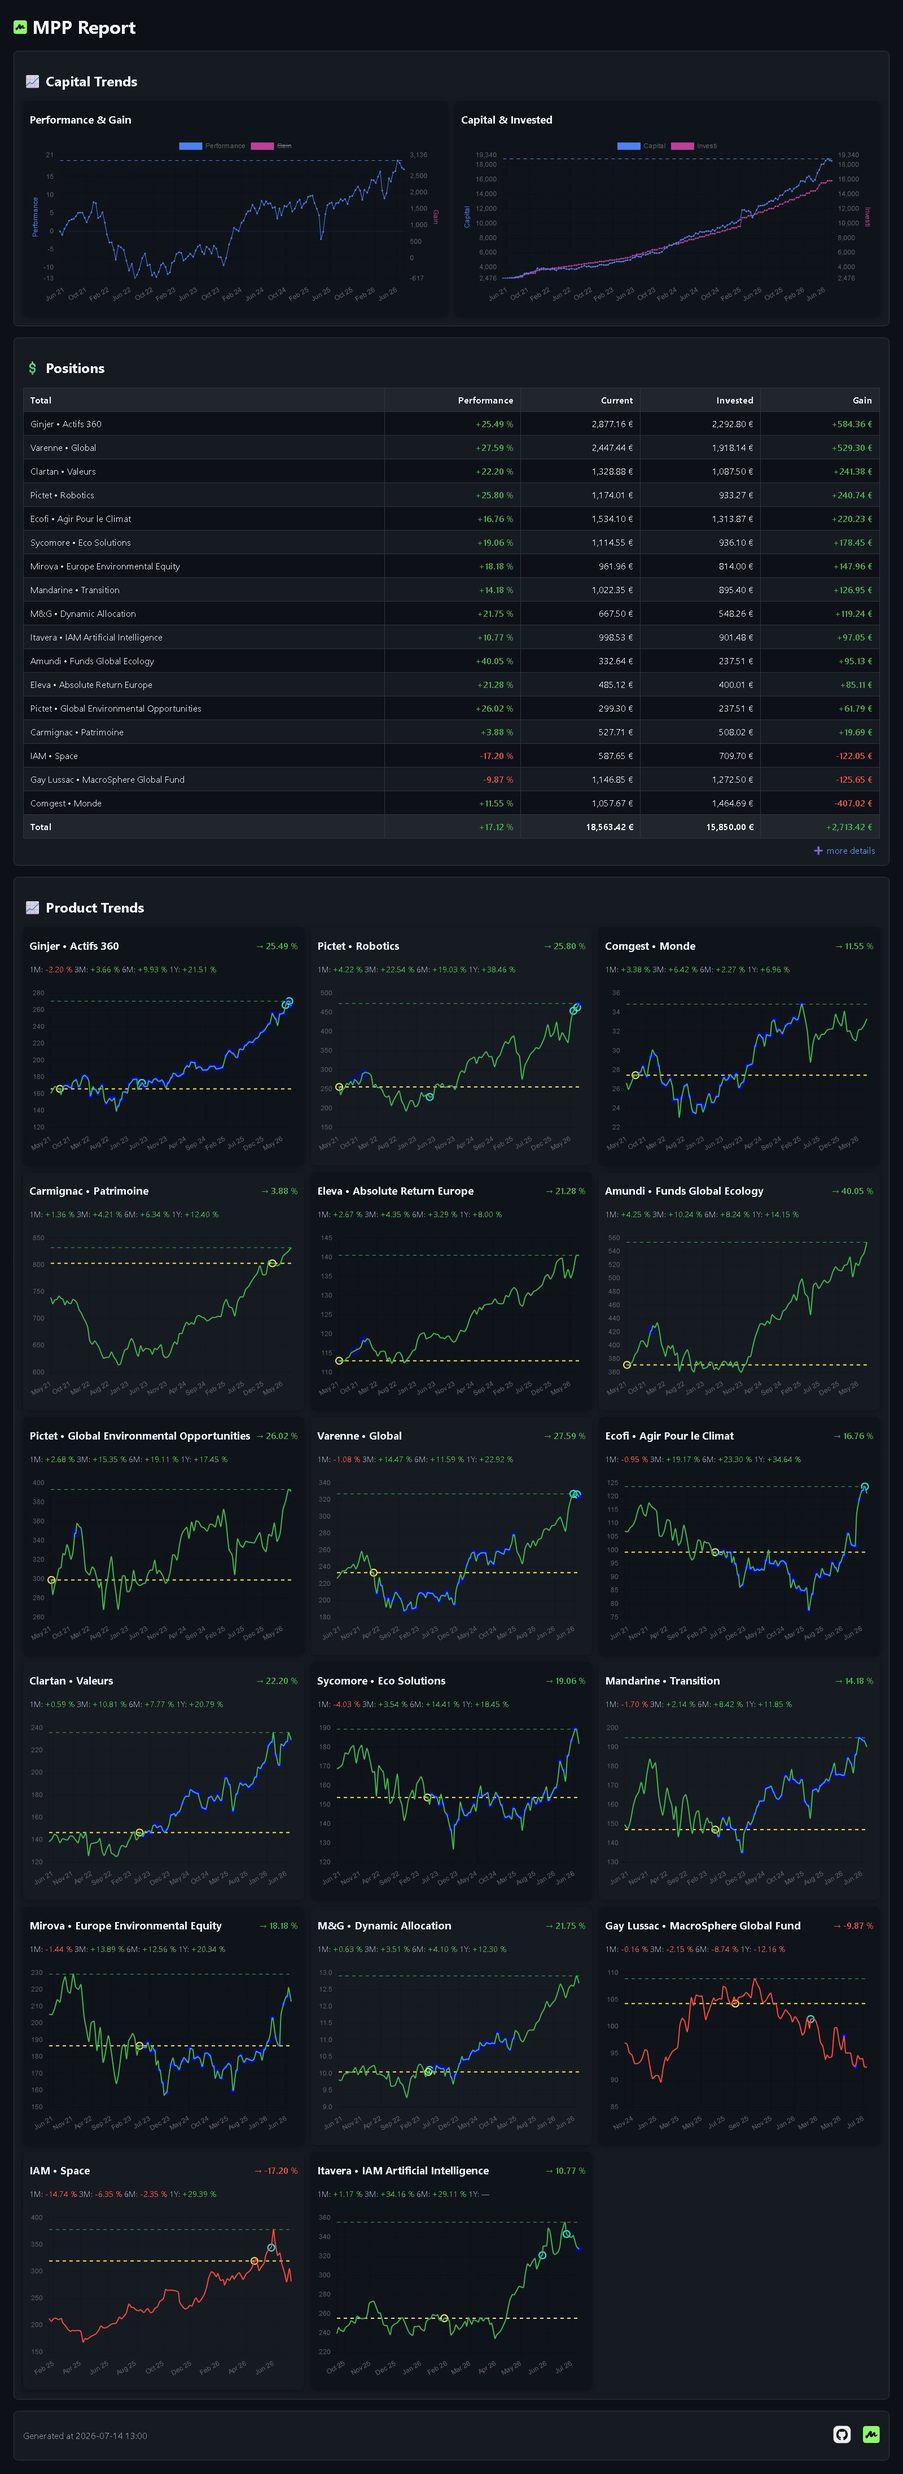
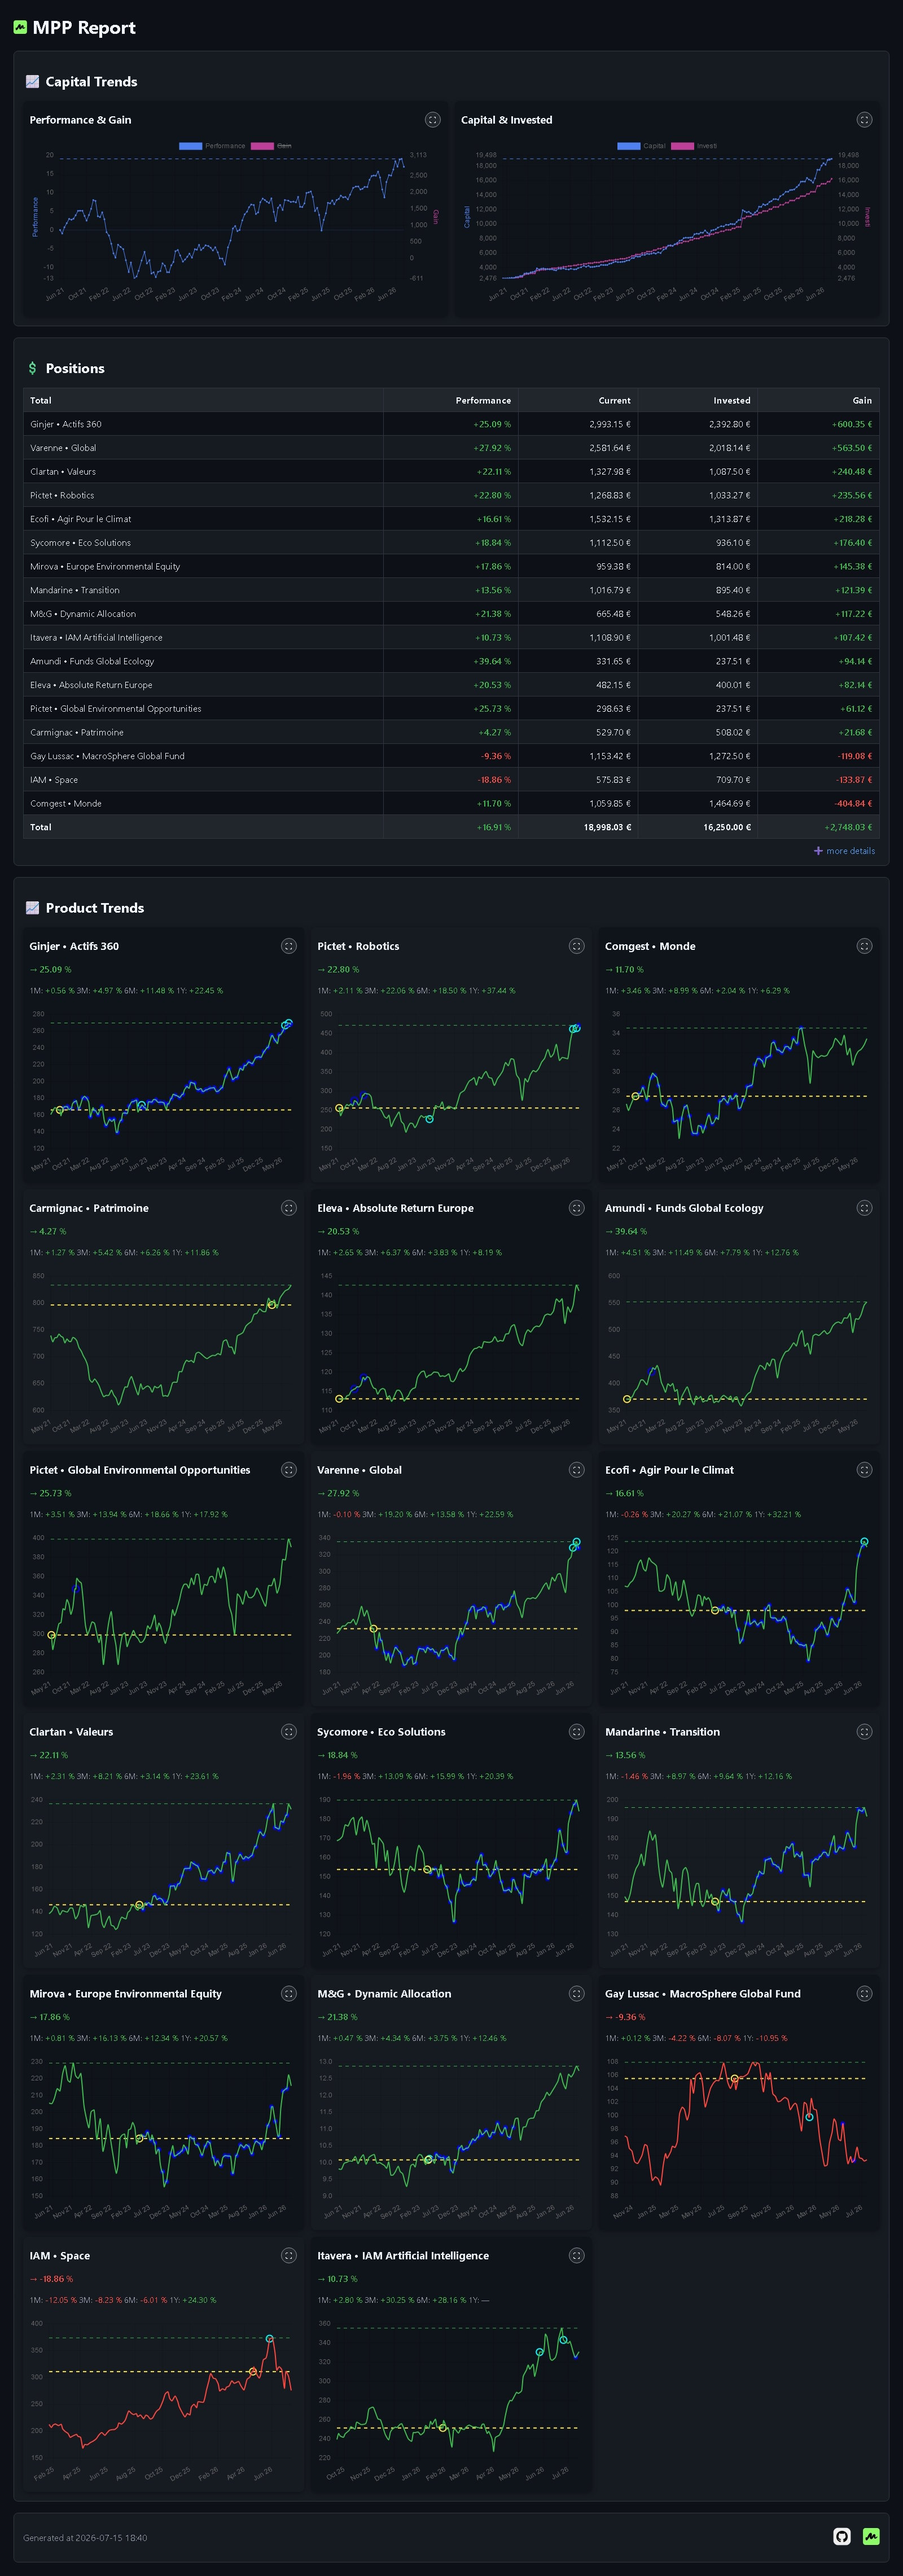
feat(charts): add fullscreen chart view

diff --git a/src/build_report/wwwroot/styles.css b/src/build_report/wwwroot/styles.css
@@ -13,6 +13,18 @@ body {
     font-family: -apple-system, BlinkMacSystemFont, "Segoe UI", Helvetica, Arial, sans-serif;
 }
 
+body.chart-fullscreen-open {
+    overflow: hidden;
+}
+
+body.chart-fullscreen-open::before {
+    content: "";
+    position: fixed;
+    inset: 0;
+    z-index: 999;
+    background: rgba(0, 0, 0, 1);
+}
+
 h1,
 h2 {
     color: #f0f6fc;
@@ -116,7 +128,7 @@ tbody tr:hover {
 .chart-container-ct {
     height: 300px;
     max-height: 300px;
-    padding: 0 10px 80px;
+    padding: 0 10px 80px; /* 80px => bottom for X */
     background: #0f141a;
     border-radius: 8px;
     border: 1px solid transparent;
@@ -129,13 +141,90 @@ tbody tr:hover {
 .chart-container-pt {
     height: 300px;
     max-height: 300px;
-    padding: 0 10px 120px;
+    padding: 0 10px 150px; /* 150px => bottom for X */
     border-radius: 8px;
     border: 1px solid transparent;
     box-shadow: 0 2px 8px rgba(0, 0, 0, 0.35);
     transition:
         border-color .2s ease,
         box-shadow .2s ease;
+}
+
+.chart-container-ct,
+.chart-container-pt {
+    position: relative;
+}
+
+.chart-canvas-wrapper {
+    position: relative;
+    height: 100%;
+}
+
+.chart-container-fullscreen {
+    position: fixed;
+    inset: 16px;
+    z-index: 1000;
+    box-sizing: border-box;
+    height: auto;
+    max-height: none;
+    padding: 20px 28px 40px;
+    border: 1px solid #58a6ff;
+    border-radius: 8px;
+    box-shadow: 0 8px 32px rgba(0, 0, 0, 0.65);
+    display: flex;
+    flex-direction: column;
+}
+
+.chart-container-fullscreen .chart-canvas-wrapper {
+    flex: 1;
+    min-height: 0;
+}
+
+.chart-container-fullscreen canvas {
+    cursor: default;
+}
+
+.chart-fullscreen-open,
+.chart-fullscreen-close {
+    position: absolute;
+    top: 18px;
+    right: 12px;
+    z-index: 1;
+    width: 36px;
+    height: 36px;
+    padding: 0;
+    color: #f0f6fc;
+    background: #21262d;
+    border: 1px solid #8b949e;
+    border-radius: 50%;
+    font-size: 20px;
+    line-height: 28px;
+    cursor: pointer;
+}
+
+.chart-fullscreen-open {
+    width: 28px;
+    height: 28px;
+    font-size: 16px;
+    line-height: 20px;
+}
+
+.chart-fullscreen-close {
+    display: none;
+}
+
+.chart-fullscreen-open:hover,
+.chart-fullscreen-close:hover {
+    background: #30363d;
+}
+
+.chart-container-fullscreen .chart-fullscreen-open,
+.chart-container-fullscreen .chart-fullscreen-close {
+    display: none;
+}
+
+.chart-container-fullscreen .chart-fullscreen-close {
+    display: block;
 }
 
 .chart-container-pt.odd {
@@ -156,16 +245,11 @@ tbody tr:hover {
 }
 
 /* ===========================
-   Position title
+   Period Performance
    =========================== */
 
-.position-title {
-    display: flex;
-    align-items: center;
-}
-
-.position-title small {
-    margin-left: auto;
+.period-performances {
+    margin-top: 16px;
 }
 
 /* ===========================

diff --git a/src/build_report/builder.py b/src/build_report/builder.py
@@ -106,6 +106,41 @@ def _render_html(
         </a>
     </div>
   </div>
+  <script>
+    (() => {{
+      const fullscreenClass = "chart-container-fullscreen";
+      const chartContainerSelector = ".chart-container-ct, .chart-container-pt";
+      const resizeChart = (container) => {{
+        requestAnimationFrame(() => Chart.getChart(container.querySelector("canvas"))?.resize());
+      }};
+      const closeFullscreen = (container) => {{
+        if (!container) return;
+        container.classList.remove(fullscreenClass);
+        document.body.classList.remove("chart-fullscreen-open");
+        resizeChart(container);
+      }};
+      document.addEventListener("click", (event) => {{
+        const closeButton = event.target.closest(".chart-fullscreen-close");
+        if (closeButton) {{
+          closeFullscreen(closeButton.closest(chartContainerSelector));
+          return;
+        }}
+        const fullscreenButton = event.target.closest(".chart-fullscreen-open");
+        if (!fullscreenButton) return;
+        const container = fullscreenButton.closest(chartContainerSelector);
+        if (container.classList.contains(fullscreenClass)) return;
+        document.querySelectorAll(`.${{fullscreenClass}}`).forEach(closeFullscreen);
+        container.classList.add(fullscreenClass);
+        document.body.classList.add("chart-fullscreen-open");
+        resizeChart(container);
+      }});
+      document.addEventListener("keydown", (event) => {{
+        if (event.key === "Escape") {{
+          closeFullscreen(document.querySelector(`.${{fullscreenClass}}`));
+        }}
+      }});
+    }})();
+  </script>
 </body>
 </html>
 """
@@ -124,10 +159,14 @@ def _render_capital_trends_by_performance(
     canvas_id = "capital_trends_performance_chart"
     return f"""
 <div class="chart-container-ct">
+    <button class="chart-fullscreen-open" type="button" aria-label="Agrandir le graphique">⛶</button>
+    <button class="chart-fullscreen-close" type="button" aria-label="Fermer le graphique en plein écran">&times;</button>
     <h3>
         Performance & Gain
     </h3>
-    <canvas id="{canvas_id}" />
+    <div class="chart-canvas-wrapper">
+        <canvas id="{canvas_id}" />
+    </div>
     <script>
         const labels_pg = {json.dumps(labels)};
         const data_pg = {json.dumps(values)};
@@ -303,10 +342,14 @@ def _render_capital_trends_by_amounts(
     canvas_id = "capital_trends_amounts_chart"
     return f"""
 <div class="chart-container-ct">
+    <button class="chart-fullscreen-open" type="button" aria-label="Agrandir le graphique">⛶</button>
+    <button class="chart-fullscreen-close" type="button" aria-label="Fermer le graphique en plein écran">&times;</button>
     <h3>
         Capital & Invested
     </h3>
-    <canvas id="{canvas_id}" />
+    <div class="chart-canvas-wrapper">
+        <canvas id="{canvas_id}" />
+    </div>
     <script>
         const labels_ci = {json.dumps(labels)};
         const data_ci = {json.dumps(values)};
@@ -606,17 +649,21 @@ def _render_product_trends(
 
         html += f"""
 <div class="chart-container-pt {css_class}">
+    <button class="chart-fullscreen-open" type="button" aria-label="Agrandir le graphique">⛶</button>
+    <button class="chart-fullscreen-close" type="button" aria-label="Fermer le graphique en plein écran">&times;</button>
     <h3 class="position-title">
-        <span>{name}</span>
-        <small class="{(_css_class(position.performance) if position.performance is not None else 'neutral')}">
-            → {position.performance:,.2f} %
-        </small>
+        {name}
     </h3>
-    <div>
+    <div class="{(_css_class(position.performance) if position.performance is not None else 'neutral')}">
+        → {position.performance:,.2f} %
+    </div>
+    <div class="period-performances">
         {_render_period_performances(period_performances)}
     </div>
     <br/>
-    <canvas id="{canvas_id}" />
+    <div class="chart-canvas-wrapper">
+        <canvas id="{canvas_id}" />
+    </div>
     <script>
         const labels_{gid} = {labels_js};
         const values_{gid} = {values_js};

diff --git a/README.md b/README.md
@@ -47,7 +47,8 @@ git clone https://github.com/dhabierre/mpp-tools.git
 cd mpp-tools
 
 git fetch --tags
-git checkout 1.0.2
+get tag
+git checkout 1.0.0 # replace with the latest version tag
 ```
 
 ```bash
